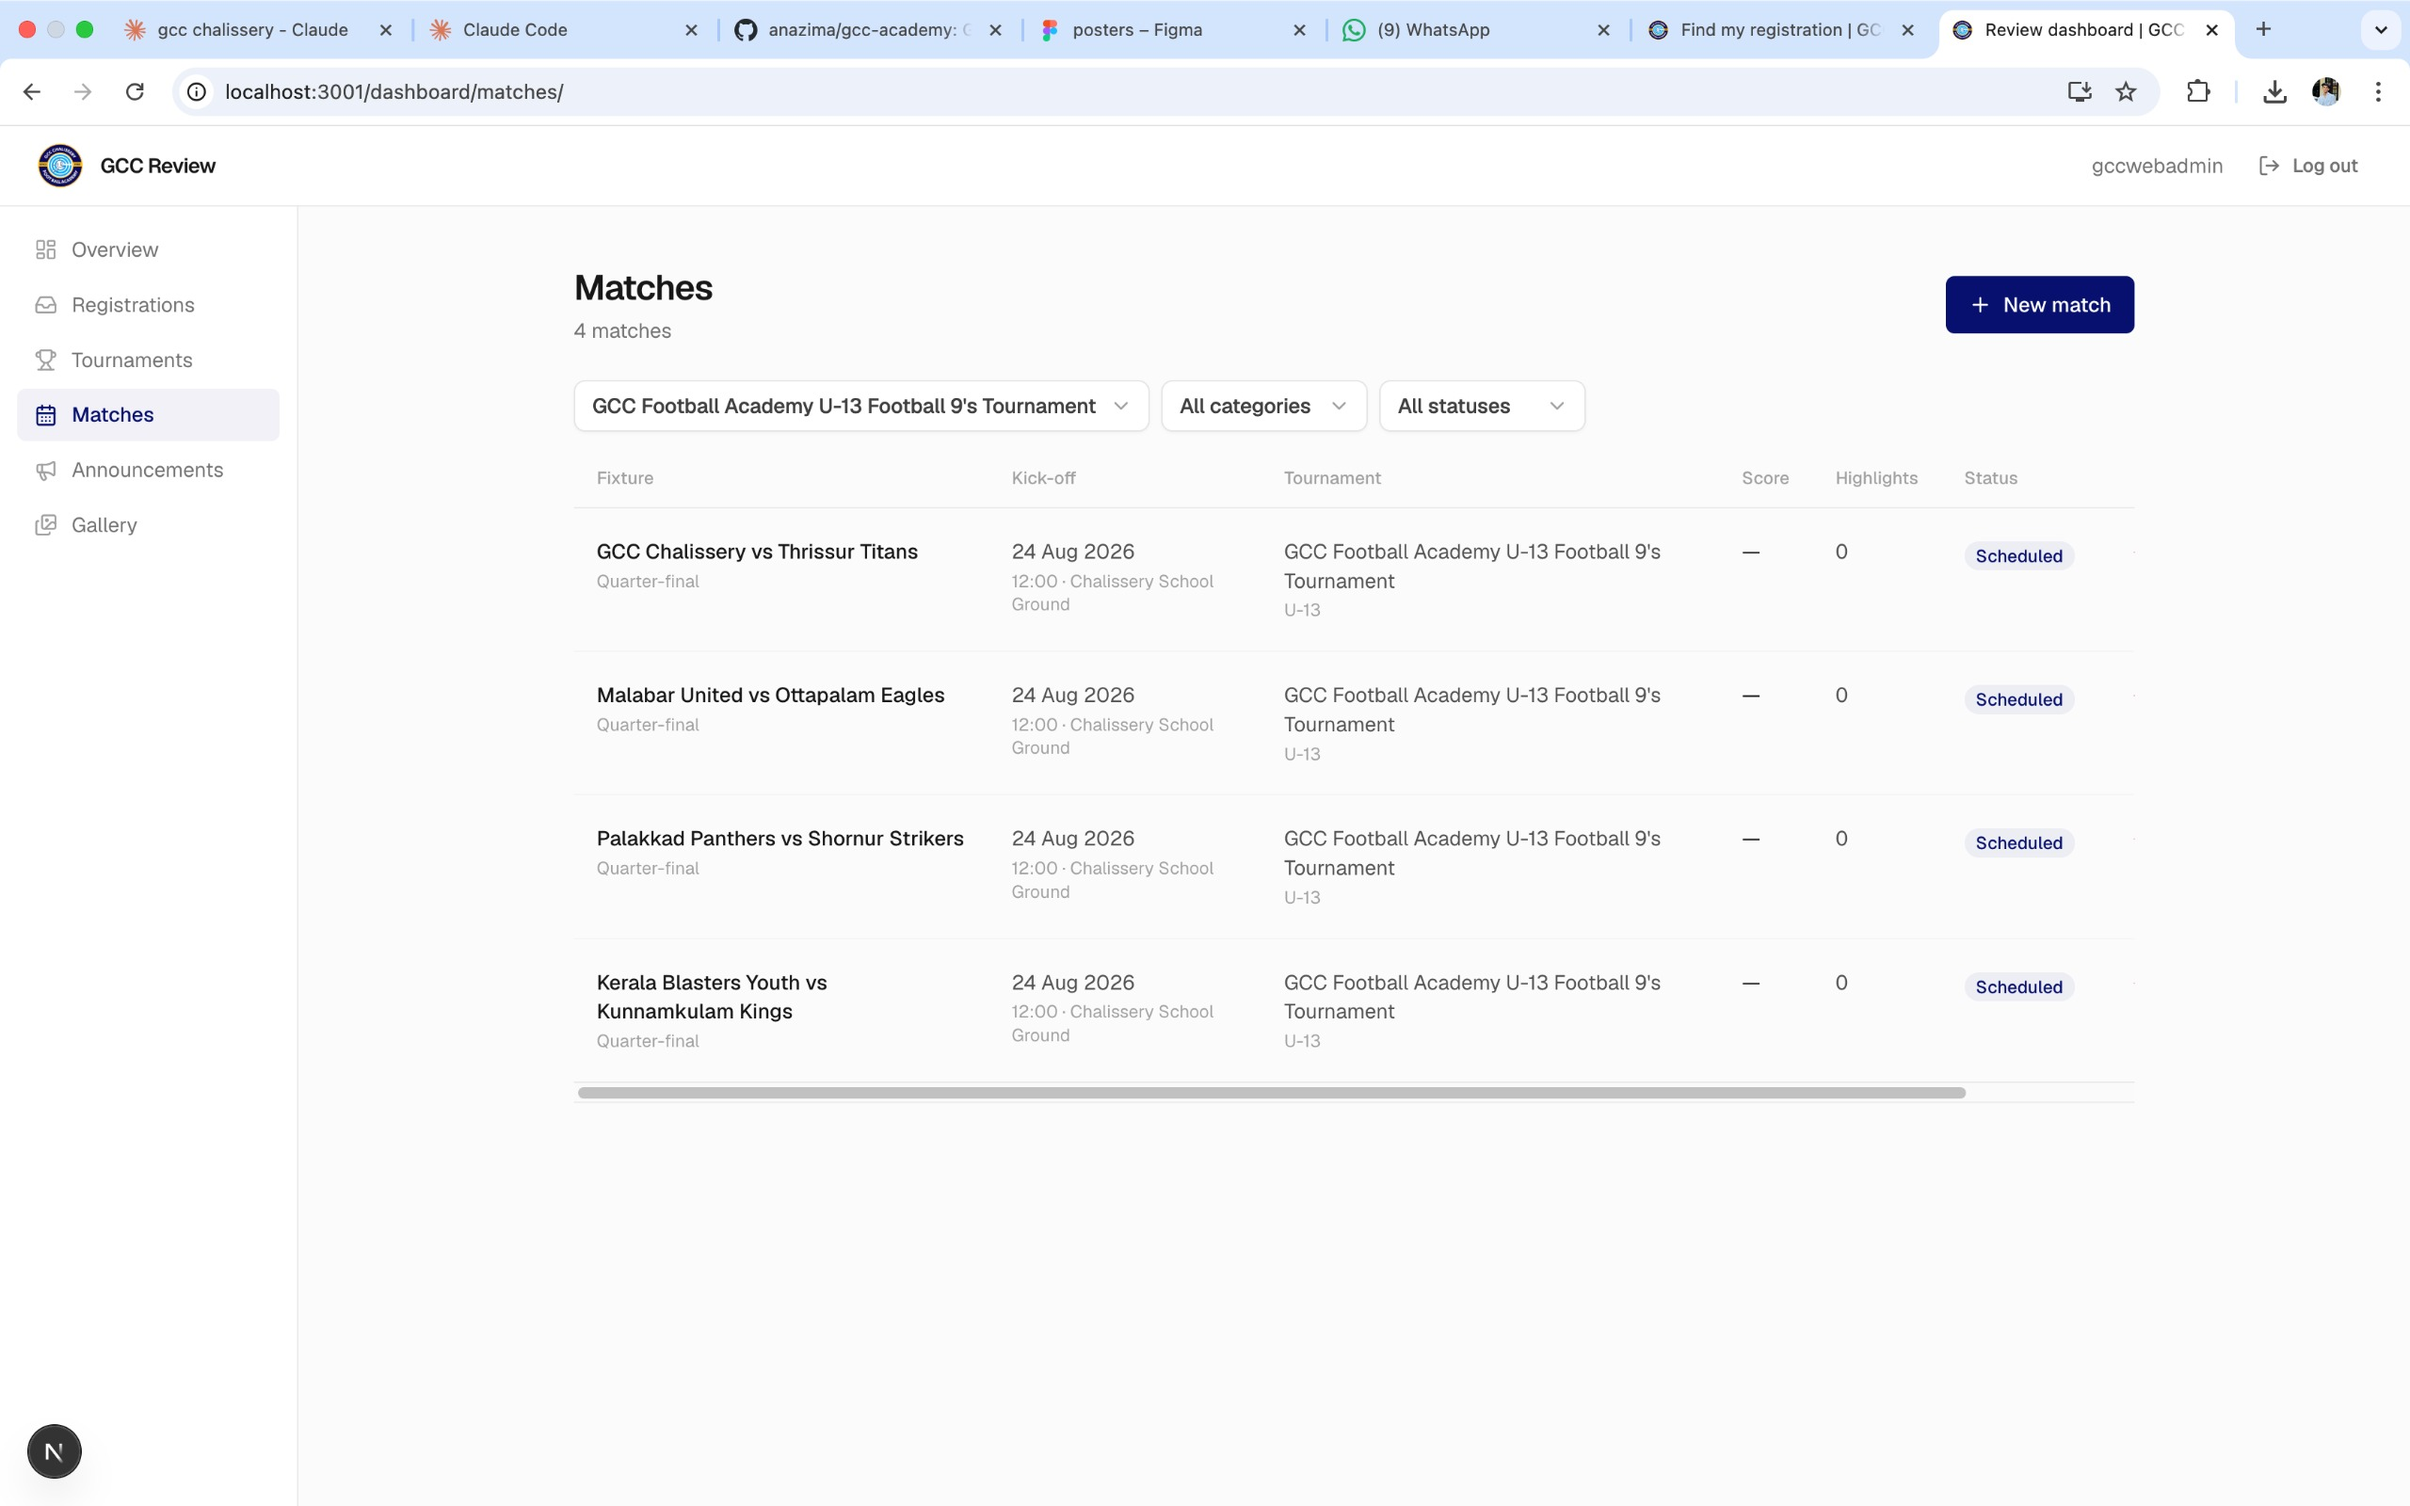
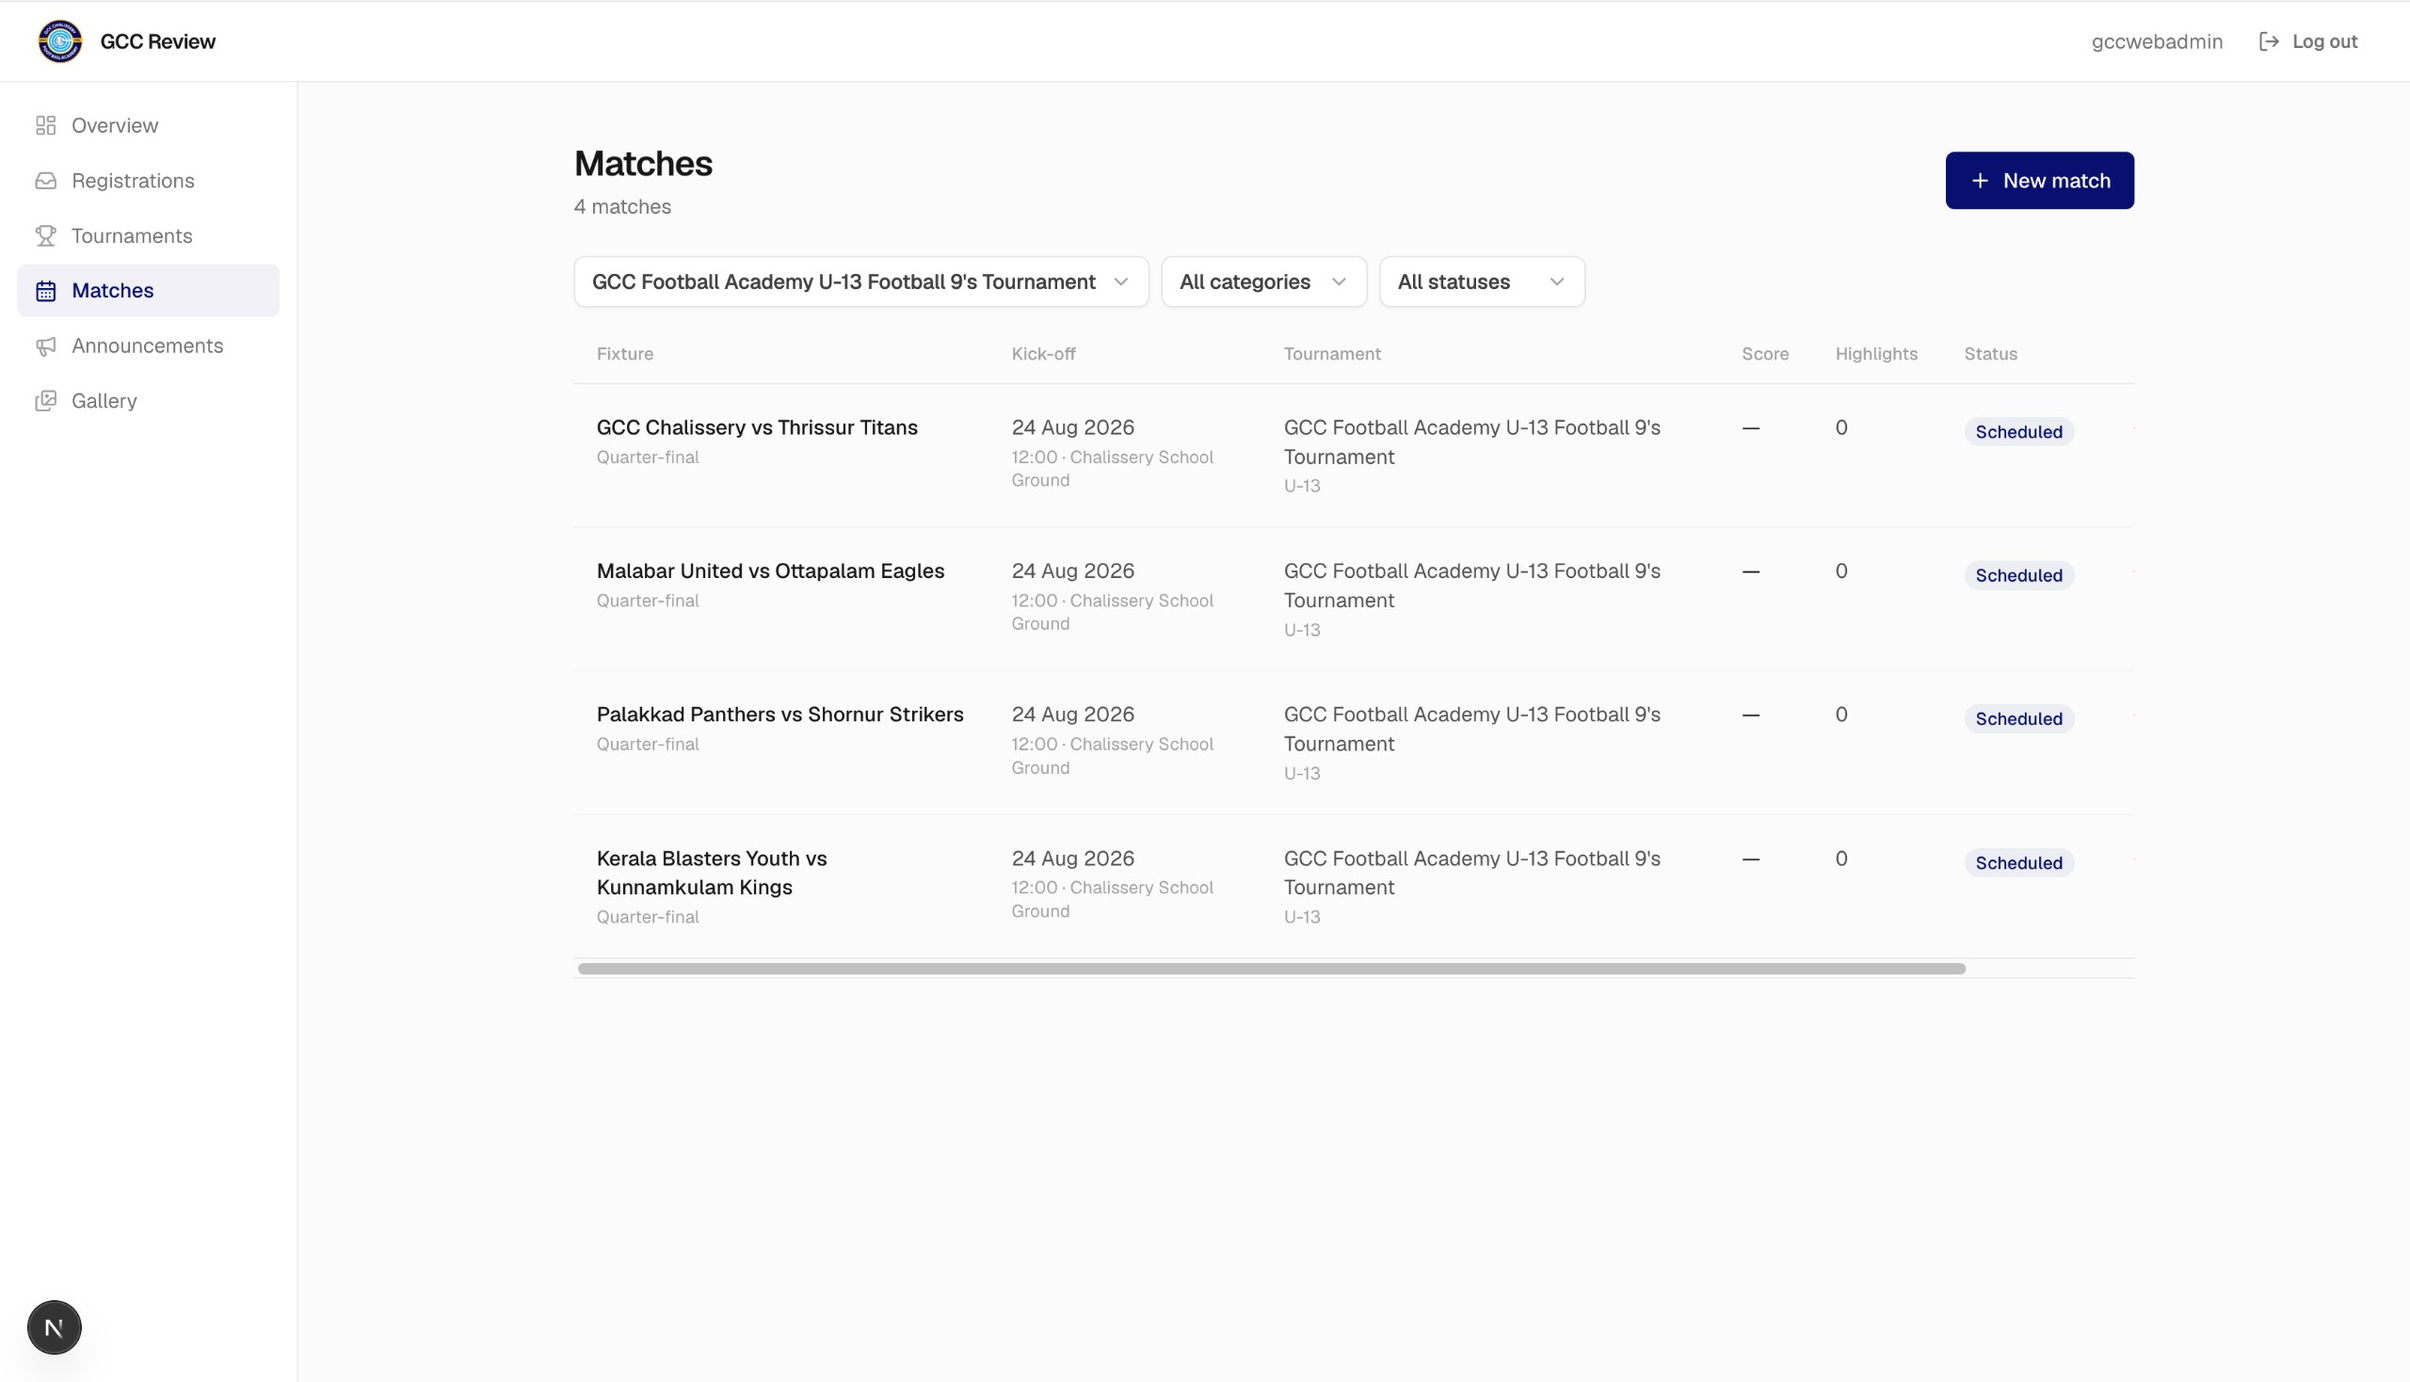
fix: crop browser chrome from GCC and NexaPOS screenshots
Eight screenshots carried macOS browser chrome (traffic lights, tab
strip, address bar). Cropped from the top at the measured offsets —
132px for matches-admin and bracket, 118px for registration, 68px for
the five NexaPOS captures — keeping full width and all remaining
height, with no resizing or rescaling.

Verified visually on matches-admin and dashboard that each crop line
lands flush against the app's own header rather than through a logo or
nav row. The seven images without chrome are untouched, confirmed
byte-identical against backups.

Image width/height in lib/content.ts are updated to the post-crop
dimensions so next/image keeps reserving the correct space. CLAUDE.md
§5 records the crop offsets, results and the exclusions.

Claude-Session: https://claude.ai/code/session_01BHm4nioSyn6KBwXADDoZgQ

diff --git a/lib/content.ts b/lib/content.ts
@@ -65,10 +65,10 @@ export const featuredProjects: Project[] = [
     liveUrl: "https://gccacademy.in/",
     images: [
       { src: "/images/gcc/site-hero.png", alt: "GCC Chalissery Football Academy public homepage", width: 3360, height: 1930 },
-      { src: "/images/gcc/registration.jpeg", alt: "Tournament registration hub", width: 2560, height: 1600 },
+      { src: "/images/gcc/registration.jpeg", alt: "Tournament registration hub", width: 2560, height: 1482 },
       { src: "/images/gcc/add-players-mobile.jpeg", alt: "Add players mobile flow", width: 931, height: 1600 },
-      { src: "/images/gcc/matches-admin.jpeg", alt: "Admin matches dashboard", width: 2560, height: 1600 },
-      { src: "/images/gcc/bracket.jpeg", alt: "Knockout bracket view", width: 2560, height: 1600 },
+      { src: "/images/gcc/matches-admin.jpeg", alt: "Admin matches dashboard", width: 2560, height: 1468 },
+      { src: "/images/gcc/bracket.jpeg", alt: "Knockout bracket view", width: 2560, height: 1468 },
       { src: "/images/gcc/site-gallery.png", alt: "Academy gallery section", width: 3360, height: 1926 },
     ],
   },
@@ -83,11 +83,11 @@ export const featuredProjects: Project[] = [
     role: "Product Design • UX Architecture • Frontend • Backend • Database • DevOps",
     tech: ["Next.js", "TypeScript", "Tailwind CSS", "Django REST Framework", "PostgreSQL", "Docker", "PWA"],
     images: [
-      { src: "/images/nexapos/dashboard.jpeg", alt: "NexaPOS dashboard", width: 2560, height: 1539 },
-      { src: "/images/nexapos/billing.jpeg", alt: "NexaPOS billing screen", width: 2560, height: 1543 },
-      { src: "/images/nexapos/products.jpeg", alt: "NexaPOS product catalogue", width: 2560, height: 1539 },
-      { src: "/images/nexapos/reports.jpeg", alt: "NexaPOS analytics reports", width: 2560, height: 1537 },
-      { src: "/images/nexapos/receipt.jpeg", alt: "NexaPOS receipt output", width: 2560, height: 1536 },
+      { src: "/images/nexapos/dashboard.jpeg", alt: "NexaPOS dashboard", width: 2560, height: 1471 },
+      { src: "/images/nexapos/billing.jpeg", alt: "NexaPOS billing screen", width: 2560, height: 1475 },
+      { src: "/images/nexapos/products.jpeg", alt: "NexaPOS product catalogue", width: 2560, height: 1471 },
+      { src: "/images/nexapos/reports.jpeg", alt: "NexaPOS analytics reports", width: 2560, height: 1469 },
+      { src: "/images/nexapos/receipt.jpeg", alt: "NexaPOS receipt output", width: 2560, height: 1468 },
     ],
   },
   {

diff --git a/CLAUDE.md b/CLAUDE.md
@@ -126,6 +126,27 @@ public/images/
     └── admin-dashboard.png
 ```
 
+### Browser chrome — cropped (complete)
+
+Eight screenshots were captured with macOS browser chrome (traffic lights, tab strip, address bar) visible. That chrome has been cropped off from the top; full width and all remaining height were kept, and nothing was resized or rescaled.
+
+| File | Cropped from top | Result |
+|---|---|---|
+| `gcc/matches-admin.jpeg` | 132px | 2560×1468 |
+| `gcc/registration.jpeg` | 118px | 2560×1482 |
+| `gcc/bracket.jpeg` | 132px | 2560×1468 |
+| `nexapos/dashboard.jpeg` | 68px | 2560×1471 |
+| `nexapos/billing.jpeg` | 68px | 2560×1475 |
+| `nexapos/products.jpeg` | 68px | 2560×1471 |
+| `nexapos/reports.jpeg` | 68px | 2560×1469 |
+| `nexapos/receipt.jpeg` | 68px | 2560×1468 |
+
+Verified visually: each crop line sits flush against the app's own header, not through a logo or nav row.
+
+Deliberately **not** cropped, since they carry no browser chrome: `gcc/site-hero.png`, `gcc/site-gallery.png`, `gcc/add-players-mobile.jpeg`, and all `propertyflow/*.png`.
+
+The `width`/`height` values on each image in `lib/content.ts` were updated to the post-crop dimensions. **If any image is ever re-cropped or replaced, update those numbers too** — `next/image` uses them to reserve layout space, so a stale value reintroduces layout shift.
+
 ### Hero visual override — abstract illustration (supersedes master-prompt §17–18)
 
 **Deliberate, per explicit instruction. Do not "fix" this back to screenshots.**
